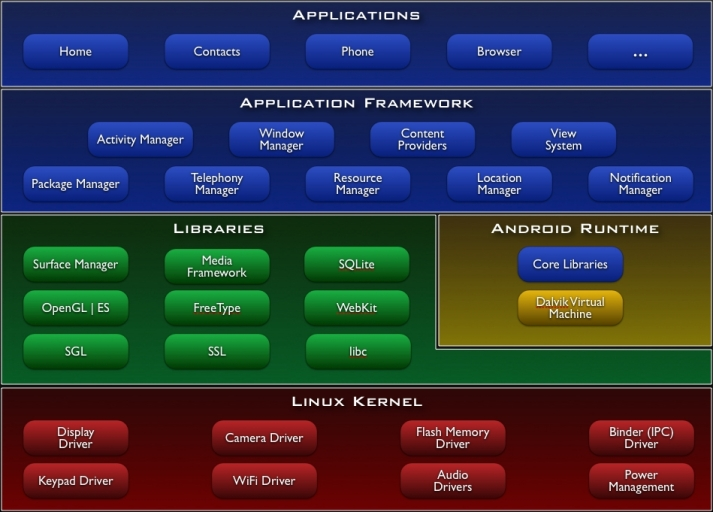
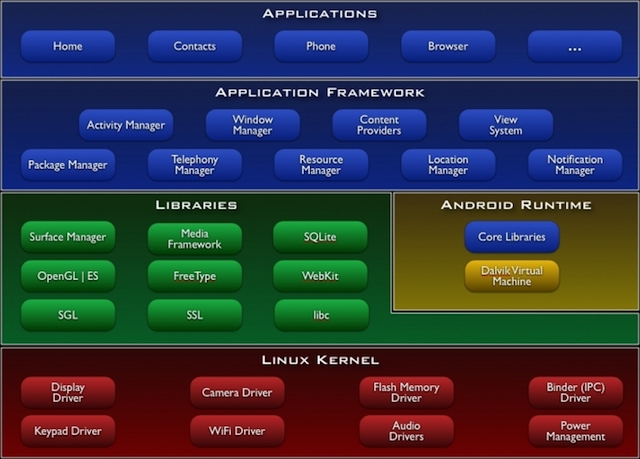
updata

diff --git a/Android/Android 群英传/[学习笔记] Android群英传：Android体系与系统架构和ADB常用命令.md b/Android/Android 群英传/[学习笔记] Android群英传：Android体系与系统架构和ADB常用命令.md
@@ -1,11 +1,13 @@
-# [学习笔记] Android群英传：Android体系与系统架构和ADB常用命令
-
+# [学习笔记] Android群英传：Android体系与系统架构和ADB常用命令
 
 ---
 ### Android体系与系统架构
 
 ![此处输入图片的描述][1]
-1. Dalvik：在运行时编译 ART：安装时就进行编译
+
+
+
+1. Dalvik：在运行时编译。ART：安装时就进行编译。5.X版本开始ART取代Dalvik。
 2. Activity、Service、Application都是继承自Context，在创建Activity、Service、Application的时候创建Context
 3. android系统目录
 
@@ -27,7 +29,8 @@
  - 安装apk adb install -r 应用程序.apk
  - 向手机写入文件 adb push <local> <remote>
  - 从手机获取文件 adb pull <remote> <local>
- - 列出目标设备中已安装的应用程序包 adb shell pm list packages 
+ - 查看log：adb shell 下logcat
+ - 列出目标设备中已安装的应用程序包 adb shell pm list packages -f
  - 删除应用 adb uninstall 完整包名
  - 查看系统盘符 adb shell df
  - 模拟按键输入 adb shell input keyevent 数字 数字为keyevent对应的code
@@ -45,4 +48,4 @@
  - 查看屏幕密度 adb shell wm density
 
 
-  [1]: http://img.my.csdn.net/uploads/201501/23/1421980198_3393.jpg
+[1]: https://upload-images.jianshu.io/upload_images/688934-c8d3e9b3d0cfd385.png?imageMogr2/auto-orient/strip|imageView2/2/w/650
